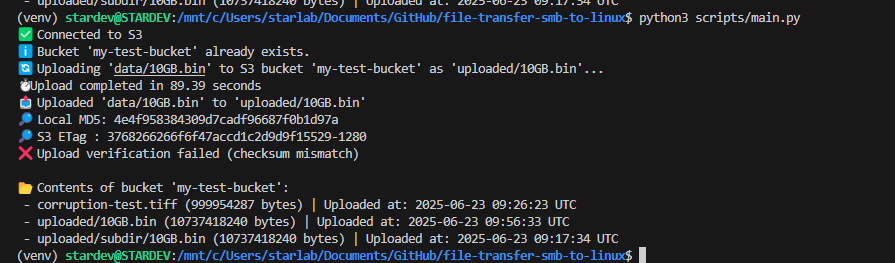
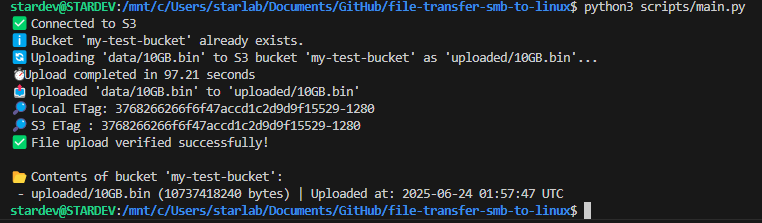
fix: check uploadfile properly

Changed region(s): [[0.0, 0.0, 0.9961, 1.0]]

diff --git a/scripts/main.py b/scripts/main.py
@@ -16,17 +16,17 @@ print("✅ Connected to S3")
 bucket = ensure_bucket_exists(s3, BUCKET_NAME)
 
 # Upload file
-# upload_file_with_validation(bucket, LOCAL_FILE_PATH, S3_KEY)
-put_object_with_validation(bucket, LOCAL_FILE_PATH, S3_KEY)
+upload_file_with_validation(bucket, LOCAL_FILE_PATH, S3_KEY)
+# put_object_with_validation(bucket, LOCAL_FILE_PATH, S3_KEY)
 
 # # Verify with checksum
-local_md5 = md5_checksum(LOCAL_FILE_PATH)
+locallasttag = calculate_s3_multipart_etag(LOCAL_FILE_PATH)
 etag = s3.Object(BUCKET_NAME, S3_KEY).e_tag.strip('"')
-print(f"🔎 Local MD5: {local_md5}")
+print(f"🔎 Local ETag: {locallasttag}")
 print(f"🔎 S3 ETag : {etag}")
 # verifyed = verify_upload(bucket, S3_KEY, LOCAL_FILE_PATH)
 
-if local_md5 == etag:
+if locallasttag == etag:
     print("✅ File upload verified successfully!")
 else:
     print("❌ Upload verification failed (checksum mismatch)")
